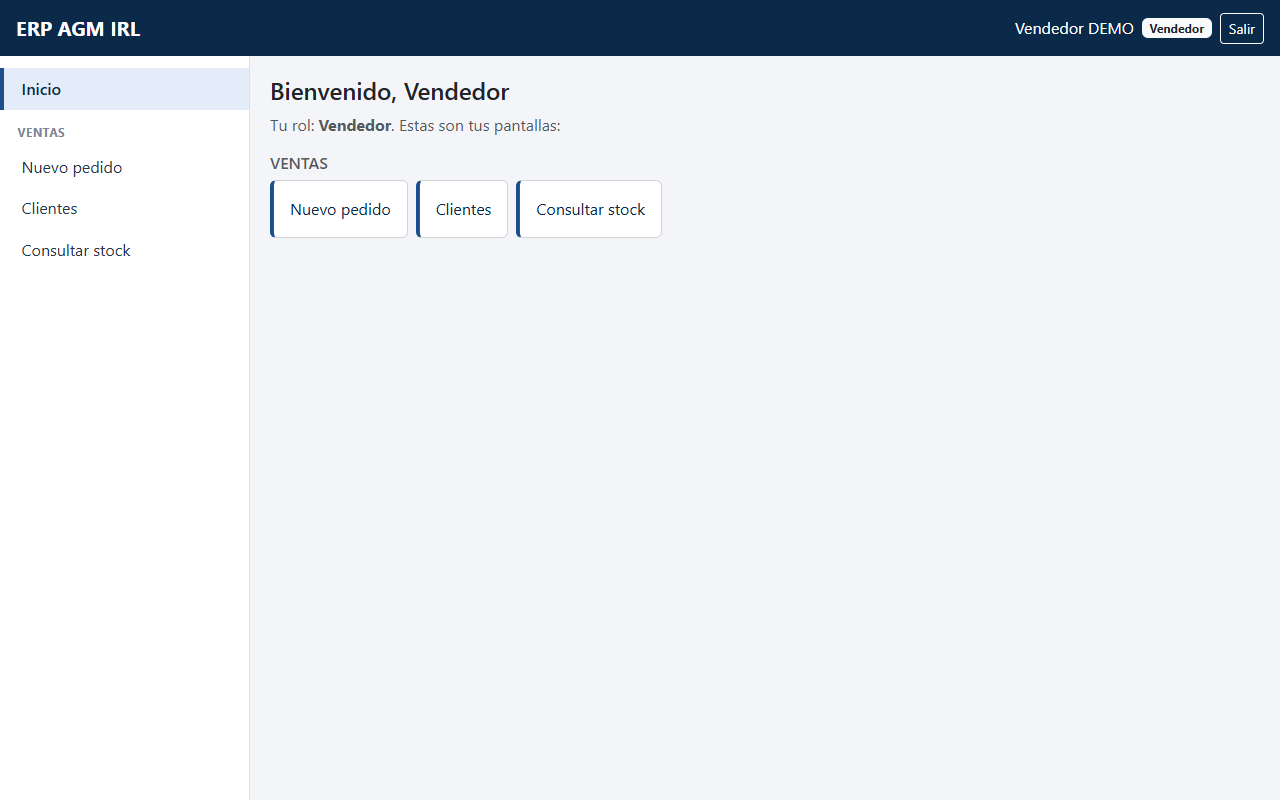
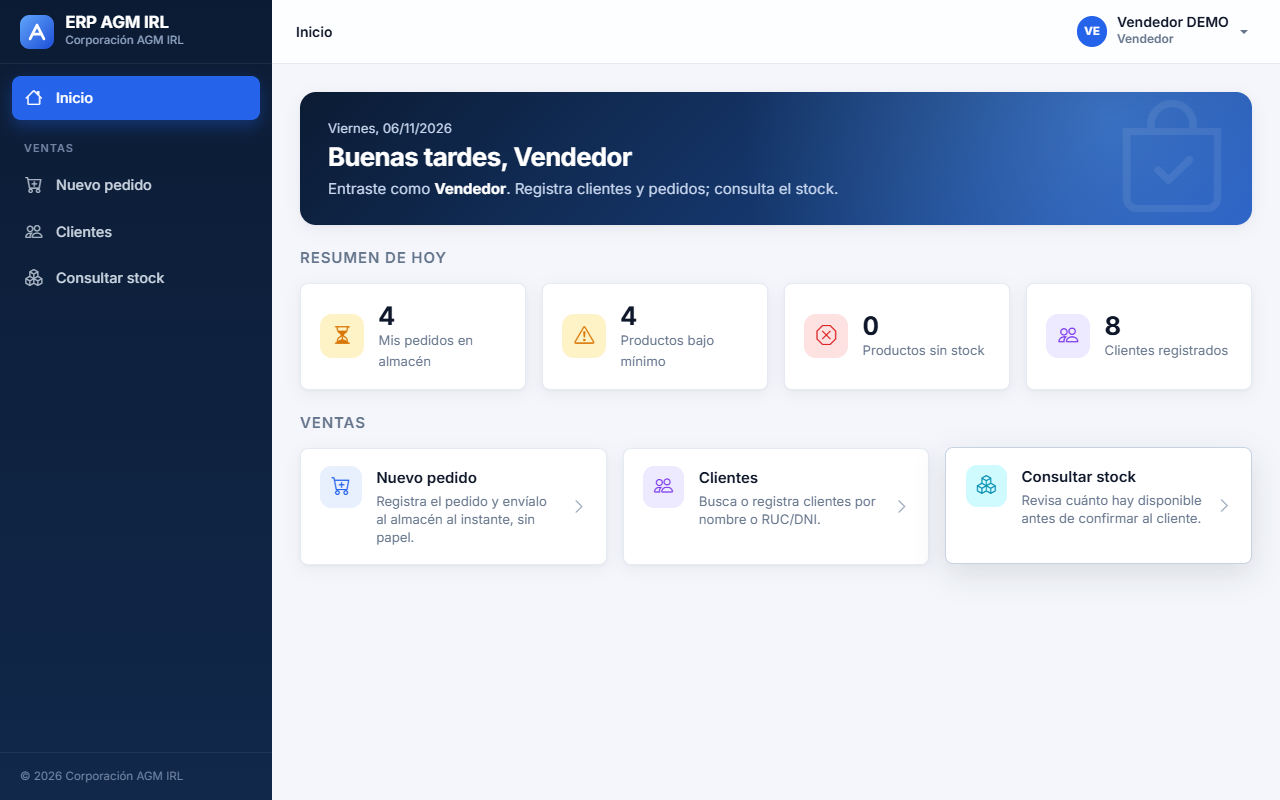
Evidencia actualizada con el rediseño de la interfaz
- Capturas de los Sprints 0 y 1 rehechas a 1280×800 con la interfaz nueva
  (más la del filtro «Bajo mínimo» de HU03)
- review del Sprint 1: sección «Rediseño de la interfaz» (origen en la
  observación de usabilidad, qué cambió, qué no, relación con los prototipos
  y verificación: 75 pruebas del backend y 49 comprobaciones en Chrome)
- review del Sprint 0: revalidación tras el rediseño
- README: dónde está el tema visual

diff --git a/docs/sprints/sprint-1/review.md b/docs/sprints/sprint-1/review.md
@@ -10,6 +10,7 @@
 | Compilación del frontend | `npm run build` sin errores |
 | Pruebas en navegador (Chrome) | 19 de 19 comprobaciones correctas (flujo completo de HU01 a HU04 y vista de celular) |
 | Resultado | Pendiente del visto bueno del Product Owner |
+| Rediseño de la interfaz | 06/11/2026, commit `6cd93ff` — observación de usabilidad de esta review (ver la sección «Rediseño de la interfaz») |
 
 ## Objetivo del sprint
 
@@ -60,7 +61,8 @@ registra. `stock_actual` sigue en 40 y no se crea ningún movimiento de inventar
 
 ## Evidencia (Chrome, 1280×800, datos DEMO)
 
-Capturas tomadas el 05/11/2026 sobre el commit `cd5bc2a`.
+Capturas actualizadas el 06/11/2026 con la interfaz rediseñada (commit `6cd93ff`). Las historias y sus criterios de
+aceptación son los del commit `cd5bc2a`.
 
 **HU01 — Usuarios y roles (gerente)**
 
@@ -86,6 +88,10 @@ Capturas tomadas el 05/11/2026 sobre el commit `cd5bc2a`.
 
 ![Consulta de stock](HU03-consultar-stock-bajo-minimo.png)
 
+**HU03 — Filtro «Bajo mínimo» (agregado en el rediseño)**
+
+![Filtro bajo mínimo](HU03-filtro-bajo-minimo.png)
+
 **HU04 — Registro de pedido: la cantidad supera el disponible y se avisa «Solo quedan 21»**
 
 ![Solo quedan N](HU04-registrar-pedido-solo-quedan.png)
@@ -101,6 +107,49 @@ Capturas tomadas el 05/11/2026 sobre el commit `cd5bc2a`.
 **HU03 y HU04 — Tras registrar 5 unidades, el disponible baja de 21 a 16 y lo reservado sube de 20 a 25; el stock en almacén (41) no cambia**
 
 ![Stock reservado](HU03-HU04-stock-reservado-tras-el-pedido.png)
+
+## Rediseño de la interfaz (observación de usabilidad)
+
+**Origen.** La tesis (sección 7.1) establece que la usabilidad no tiene un sprint propio: se revisa en la Sprint Review
+de cada sprint y sus observaciones vuelven al Product Backlog. En esta review el Product Owner observó que la interfaz
+debía ser más moderna e intuitiva para que el personal la use sin dificultad. La observación se atendió antes de iniciar
+el Sprint 2, sobre todas las pantallas construidas hasta ahora (Sprints 0 y 1). Commit `6cd93ff`, 06/11/2026.
+
+**Qué cambió (solo la presentación y la facilidad de uso):**
+
+- Tema visual propio sobre Bootstrap 5: paleta azul marino y azul, tipografía Inter, íconos de Bootstrap Icons,
+  tarjetas y tablas más limpias y etiquetas de estado en píldoras de colores.
+- Barra lateral oscura con un ícono por pantalla; las pantallas de sprints futuros se marcan «Pronto». La barra superior
+  muestra dónde está el usuario (por ejemplo, «Ventas › Nuevo pedido») y su menú con «Cerrar sesión».
+- Inicio de sesión en dos paneles, con la opción de mostrar la contraseña.
+- Inicio por rol: saludo, resumen del día con cifras reales (pedidos en almacén, productos bajo mínimo o sin stock,
+  clientes o usuarios) y accesos rápidos con una explicación de cada pantalla.
+- Usuarios: el rol se elige con tarjetas que explican qué ve cada rol; filtros por rol y búsqueda.
+- Clientes: avatar con iniciales, validación en vivo del RUC/DNI y sugerencia de los distritos de Lima y Callao, para que
+  el distrito se escriba siempre igual (lo usará el reparto por distrito, HU10).
+- Stock: filtros «Bajo mínimo» y «Sin stock» con su conteo, y una barra de nivel por producto.
+- Nuevo pedido: pasos numerados que se marcan al completarse, selector de cantidad con − y +, resumen fijo a la derecha,
+  atajos «Mañana» y «Pasado mañana», lista de comprobación antes de registrar, pantalla de confirmación con el número
+  del pedido y barra inferior con el total en el celular.
+- Avisos breves en la esquina al guardar y mensajes claros cuando una lista está vacía.
+
+**Qué no cambió:** las historias de usuario, sus criterios de aceptación, el modelo de datos, la arquitectura y las
+tecnologías de la tesis (React + Bootstrap 5; se agregaron Sass para personalizar Bootstrap, Bootstrap Icons y la fuente
+Inter instalada localmente). En la API solo se agregaron dos parámetros opcionales de consulta: `?estado=` en el stock
+(para los filtros) y `?por_pagina=` (para que el inicio pida solo los totales).
+
+**Relación con los prototipos (Figs. 12 a 15).** Las pantallas conservan el contenido y el flujo de los prototipos
+(buscar al cliente, agregar productos viendo el stock en ese momento, registrar con hora automática, menú por rol y
+etiquetas de estado de colores), con una presentación más moderna. Los prototipos del Sprint 0 cumplieron su función de
+explorar el diseño, y las pantallas finales se refinaron con la retroalimentación de la Sprint Review.
+
+**Verificación del rediseño:**
+
+| Verificación | Resultado |
+|---|---|
+| Pruebas automáticas del backend | **75 de 75 correctas** (2 nuevas en `inventario/tests/test_hu03_stock.py`: filtro por estado y `por_pagina`) |
+| Compilación del frontend | `npm run build` sin errores |
+| Pruebas en navegador (Chrome) | **49 de 49** comprobaciones: 26 del Sprint 0 (sesión, menú por rol, permisos, celular) y 23 del Sprint 1 (HU01 a HU04, reserva de stock, filtros y celular sin desplazamiento horizontal) |
 
 ## Observaciones
 

diff --git a/docs/sprints/sprint-0/review.md b/docs/sprints/sprint-0/review.md
@@ -10,6 +10,7 @@
 | Compilación del frontend | `npm run build` sin errores |
 | Pruebas en navegador (Chrome) | 25 de 25 comprobaciones correctas (menú por rol, rutas protegidas, celular) |
 | Resultado | **Aprobado** por el Product Owner el 05/11/2026 |
+| Revalidación tras el rediseño | 06/11/2026, commit `6cd93ff`: 26 de 26 comprobaciones en Chrome (ver la review del Sprint 1, sección «Rediseño de la interfaz») |
 
 ## Objetivo del sprint
 
@@ -54,25 +55,27 @@ El Sprint 0 no tiene historias de usuario: prepara la base sobre la que se const
 
 ## Evidencia (Chrome, 1280×800, datos DEMO)
 
-Las capturas se tomaron el 05/11/2026. El inicio de sesión y el menú por rol no cambiaron entre este sprint y el siguiente.
+Capturas actualizadas el 06/11/2026 con la interfaz rediseñada (commit `6cd93ff`). Muestran la funcionalidad de este
+sprint (inicio de sesión, menú por rol y validación del rol) con la presentación vigente. Las pantallas marcadas
+«Pronto» en el menú se construyen en los sprints siguientes.
 
 **Inicio de sesión**
 
 ![Inicio de sesión](inicio-de-sesion.png)
 
-**Menú del vendedor**
+**Inicio y menú del vendedor**
 
 ![Menú del vendedor](menu-vendedor.png)
 
-**Menú del almacenero**
+**Inicio y menú del almacenero**
 
 ![Menú del almacenero](menu-almacenero.png)
 
-**Menú del repartidor**
+**Inicio y menú del repartidor**
 
 ![Menú del repartidor](menu-repartidor.png)
 
-**Menú del gerente (ve todos los módulos)**
+**Inicio y menú del gerente (ve todos los módulos)**
 
 ![Menú del gerente](menu-gerente.png)
 

diff --git a/README.md b/README.md
@@ -108,6 +108,9 @@ npm run build                           # el frontend debe compilar sin errores
 ## Convenciones
 
 - Interfaz en español; fechas dd/mm/aaaa, moneda en S/ y zona horaria America/Lima.
+- Diseño visual: tema propio sobre Bootstrap 5 en `frontend/src/estilos/estilos.scss` (Sass), con Bootstrap Icons y la
+  fuente Inter instalada localmente (funciona sin internet). Los componentes comunes (encabezado de página, estados
+  vacíos, píldoras de estado, avatar, buscador y avisos) están en `frontend/src/componentes/`.
 - `hora_registro` y `hora_conformidad` de cada pedido las pone el sistema, nunca el usuario.
 - **Reserva de stock** (tesis 7.3 y Tabla IV): stock disponible = `stock_actual` − cantidades de los pedidos en estado
   `en_almacen`. Al registrar un pedido, cada línea debe caber en el disponible («Solo quedan N»). `stock_actual` baja
